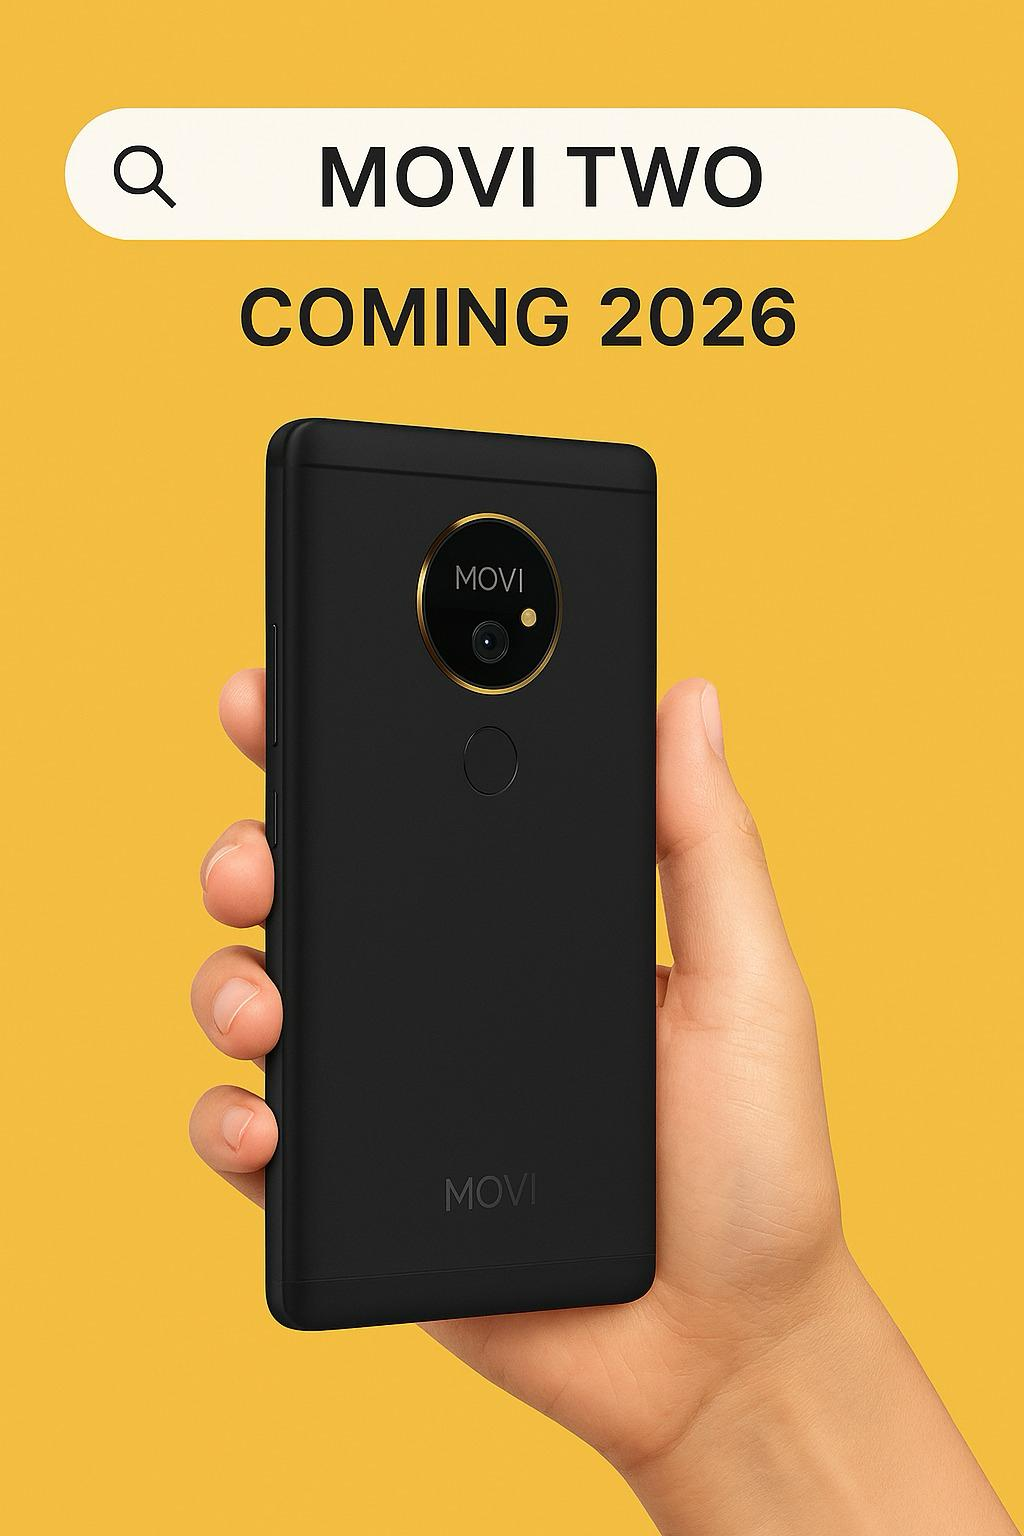
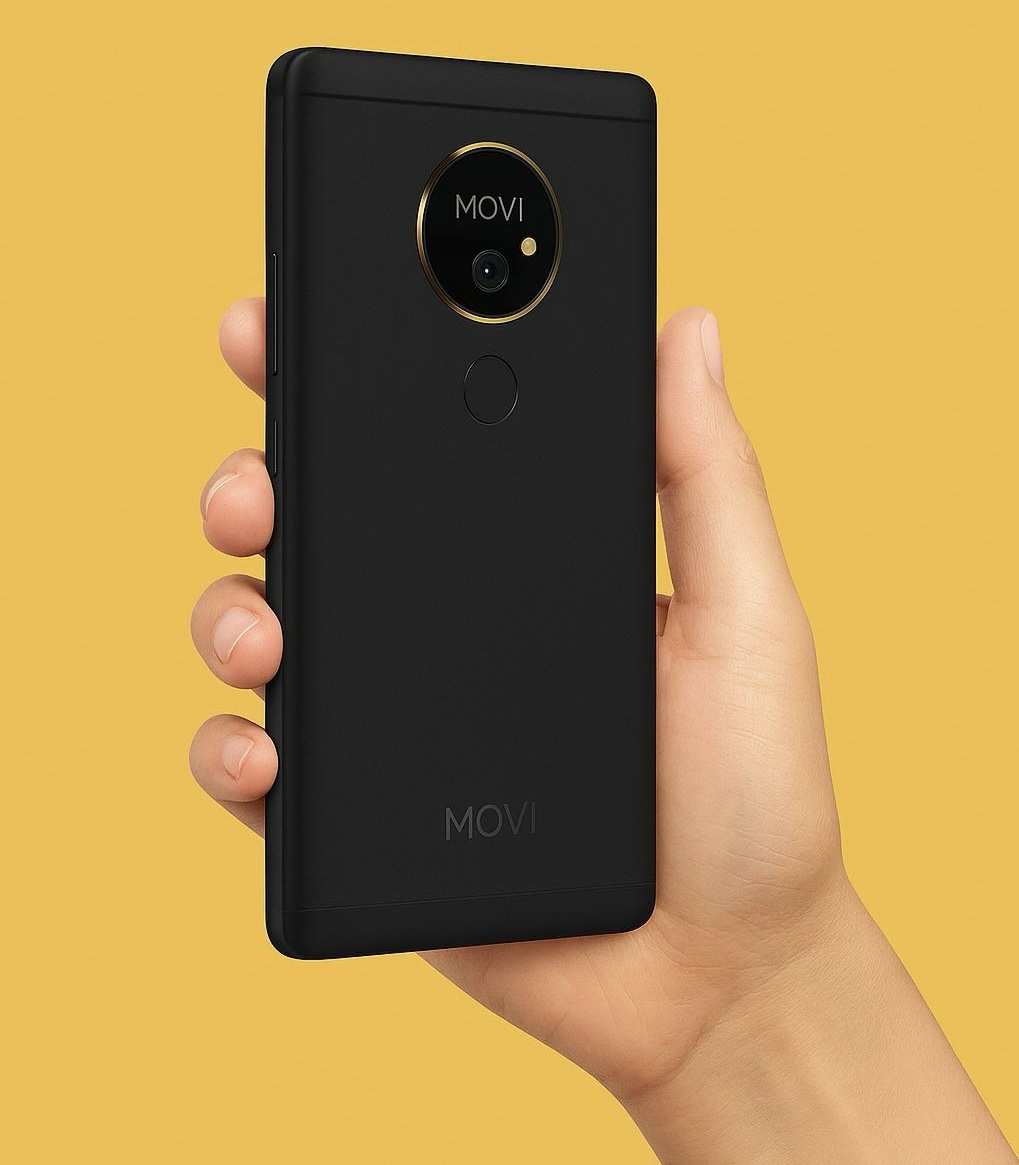
Swap MOVI TWO promo image to IMG_0586, restore original section layout
https://claude.ai/code/session_01RVtUtMo6jiKWBUrAjoXLSw

diff --git a/src/pages/Home.jsx b/src/pages/Home.jsx
@@ -472,25 +472,17 @@ export default function Home() {
           alt="MOVI TWO — Coming 2027"
           loading="lazy"
           className="absolute inset-0 w-full h-full object-cover"
-          style={{ objectPosition: "center 70%" }}
         />
-        {/* Top fades to full black (hides baked-in text), middle shows photo, bottom goes dark */}
         <div
           className="absolute inset-0"
-          style={{ background: "linear-gradient(to bottom, rgba(4,5,8,1) 0%, rgba(4,5,8,1) 20%, rgba(4,5,8,0.15) 48%, rgba(4,5,8,0.97) 100%)" }}
+          style={{ background: "linear-gradient(to top, rgba(4,5,8,0.97) 0%, rgba(4,5,8,0.45) 50%, rgba(4,5,8,0.05) 100%)" }}
         />
         <motion.div
           {...fi()}
           className="relative z-10 px-8 sm:px-14 lg:px-20 py-16 lg:py-24 max-w-3xl w-full"
         >
-          <div className="text-[10px] font-bold tracking-[0.28em] uppercase mb-4" style={{ color: RED }}>
+          <div className="text-[10px] font-bold tracking-[0.28em] uppercase mb-6" style={{ color: RED }}>
             Coming · CES 2027
-          </div>
-          <div
-            className="font-extrabold leading-none text-white mb-6"
-            style={{ fontSize: "clamp(2rem,6vw,4rem)", letterSpacing: "-0.04em", opacity: 0.5 }}
-          >
-            COMING 2027
           </div>
           <h2
             className="font-extrabold leading-none text-white mb-6"
@@ -498,9 +490,9 @@ export default function Home() {
           >
             MOVI TWO
           </h2>
-          <p className="text-base sm:text-lg max-w-md mb-10 font-light leading-relaxed" style={{ color: "rgba(255,255,255,0.55)" }}>
-            1080p · DLP · 70–80 lm · Autofocus.<br />
-            The next generation is coming.
+          <p className="text-lg sm:text-xl max-w-lg mb-10 font-light" style={{ color: "rgba(255,255,255,0.65)" }}>
+            Next-generation DLP projector smartphone — 1080p · 70–80 lm · Autofocus.
+            The future of your screen is coming.
           </p>
           <a
             href="mailto:[email redacted]?subject=MOVI%20TWO%20Interest&body=Hi%2C%20I%27d%20like%20to%20register%20my%20interest%20for%20MOVI%20TWO."